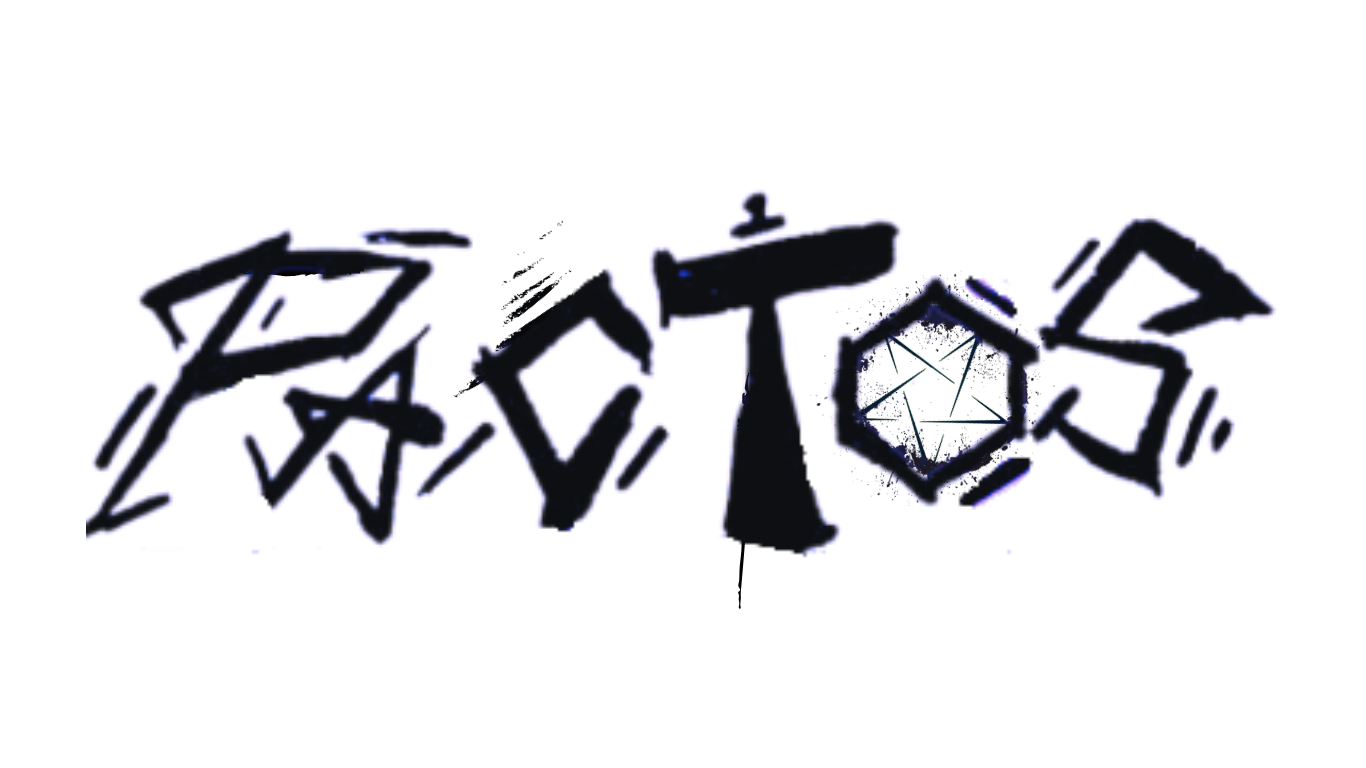
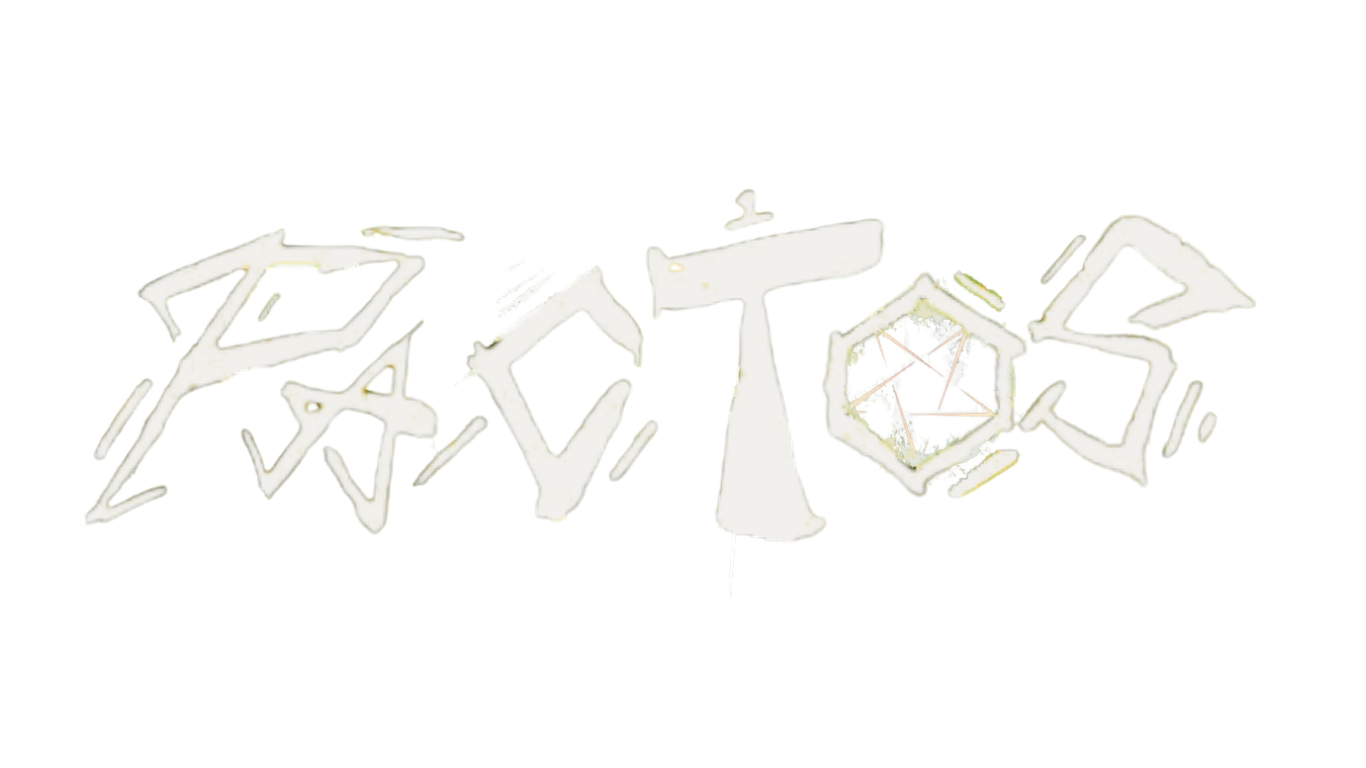
teste de cores do design - 4

Changed region(s): [[0.0615, 0.25, 0.9531, 0.7188]]

diff --git a/src/main/resources/static/fichas.html b/src/main/resources/static/fichas.html
@@ -41,7 +41,7 @@
             position: sticky; top: 0; z-index: 1000;
         }
 
-        .header-left { display: flex; align-items: center; gap: 20px; }
+        .header-left { display: flex; align-items: center; gap: 20px; z-index: 2;}
 
         /* O Botão Hambúrguer */
         .menu-btn {
@@ -50,9 +50,18 @@
         }
         .menu-btn:hover { color: #ffffff; transform: scale(1.1); text-shadow: 0 0 10px rgba(255,255,255,0.5); }
 
+        /* Centraliza a logo no meio absoluto da tela */
+        .pactos-logo {
+            position: absolute;
+            left: 50%;
+            transform: translateX(-50%);
+            z-index: 1;
+        }
+
         .pactos-logo img {
             height: 45px; width: auto;
             filter: drop-shadow(0 0 10px rgba(96, 165, 250, 0.6)); /* Brilho azul mais forte na logo */
+            mix-blend-mode: lighten; /* Mágica que remove o fundo preto do JPG */
         }
 
         /* Bolinha de Perfil na Header */
@@ -76,7 +85,7 @@
             z-index: 1040; display: flex; flex-direction: column;
         }
         .sidebar-header { padding: 30px 20px; text-align: center; border-bottom: 1px solid rgba(59, 130, 246, 0.3); }
-        .sidebar-header img { width: 140px; filter: drop-shadow(0 0 10px rgba(96, 165, 250, 0.6)); }
+        .sidebar-header img { width: 140px; filter: drop-shadow(0 0 10px rgba(96, 165, 250, 0.6)); mix-blend-mode: lighten; }
         .sidebar-menu { list-style: none; padding: 20px 0; margin: 0; flex-grow: 1; }
         .sidebar-menu li a {
             padding: 15px 30px; text-decoration: none; font-size: 1.2rem;
@@ -156,14 +165,13 @@
 
 <div id="pactosSidebar" class="sidebar">
     <div class="sidebar-header">
-        <img src="assets/BRAND (2).svg" alt="PACTOS RPG">
+        <img src="assets/PACTOS.jpg" alt="PACTOS RPG">
     </div>
     <ul class="sidebar-menu">
         <li><a href="home.html">INÍCIO</a></li>
         <li><a href="perfil.html">MEU PERFIL</a></li>
         <li><a href="fichas.html">AGENTES</a></li>
         <li><a href="#" class="inativo">CAMPANHAS (EM BREVE)</a></li>
-        <li><a href="configuracoes.html">CONFIGURAÇÕES</a></li>
     </ul>
     <div style="padding: 20px; border-top: 1px solid rgba(59, 130, 246, 0.3); margin-top: auto;">
         <button onclick="fazerLogout()" class="btn btn-outline-danger w-100" style="font-family: 'LeopoldMedium'; font-size: 1.2rem; border-width: 2px;">SAIR</button>
@@ -174,12 +182,13 @@
 <header class="pactos-header">
     <div class="header-left">
         <button class="menu-btn" onclick="toggleMenu()">☰</button>
-        <div class="pactos-logo">
-            <img src="assets/PACTOS.png" alt="PACTOS RPG">
-        </div>
     </div>
 
-    <div class="d-flex align-items-center">
+    <div class="pactos-logo">
+        <img src="assets/PACTOS.jpg" alt="PACTOS RPG">
+    </div>
+
+    <div class="d-flex align-items-center" style="z-index: 2;">
         <a href="perfil.html" title="Meu Perfil" style="text-decoration: none;">
             <div class="profile-pic-placeholder text-secondary">
                 <svg width="28" height="28" viewBox="0 0 24 24" fill="#60a5fa"><path d="M12,4A4,4 0 0,1 16,8A4,4 0 0,1 12,12A4,4 0 0,1 8,8A4,4 0 0,1 12,4M12,14C16.42,14 20,15.79 20,18V20H4V18C4,15.79 7.58,14 12,14Z"></path></svg>
